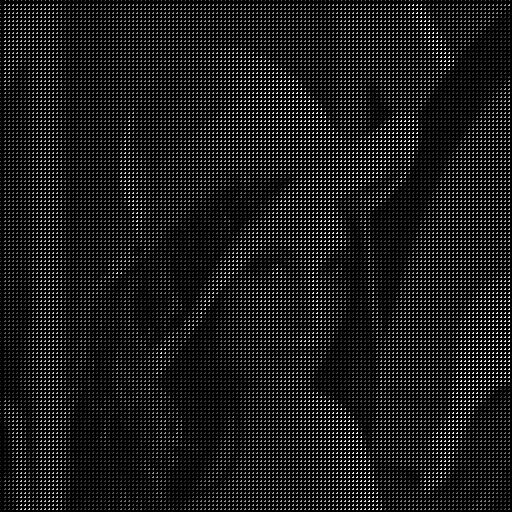
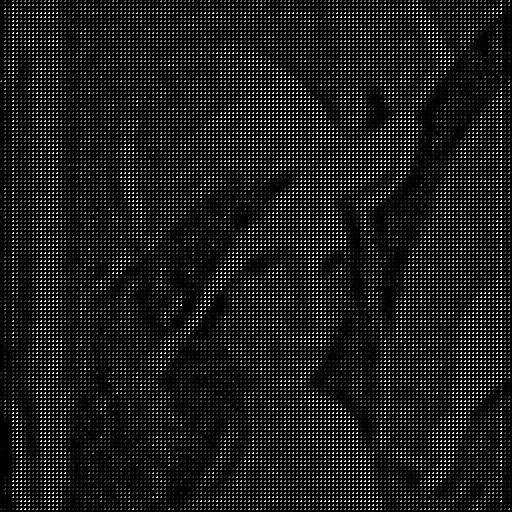
deconv amelioration

diff --git a/SignalProcessing/Projet/code.m b/SignalProcessing/Projet/code.m
@@ -45,9 +45,20 @@ down_im2 =trans_im2(1:step : size_(1), 1:step:size_(2));
 down_im3 =trans_im3(1:step : size_(1), 1:step:size_(2));
 
 %% adding noise
-noise_im1 = imnoise(down_im1, 'gaussian', 0 , 0.001);
-noise_im2 = imnoise(down_im2, 'gaussian', 0 , 0.001);
-noise_im3 = imnoise(down_im3, 'gaussian', 0 , 0.001);
+noise_im1 = imnoise(down_im1, 'gaussian', 0 , 0.01);
+noise_im2 = imnoise(down_im2, 'gaussian', 0 , 0.01);
+noise_im3 = imnoise(down_im3, 'gaussian', 0 , 0.01);
+imwrite(noise_im1, 'noise_im1.png')
+imwrite(noise_im1, 'noise_im2.png')
+imwrite(noise_im1, 'noise_im3.png')
+subplot(3,1,1);
+imshow(noise_im1)
+subplot(3,1,2);
+imshow(noise_im2)
+subplot(3,1,3);
+imshow(noise_im3);
+
+figure();
 
 %% matrix 
 shape = size(noise_im1)*step;
@@ -81,34 +92,7 @@ mask = or(mask1, or(  mask2 ,  mask3));
 imshow(im_sum)
 figure();
 imshow(mask);
-imwrite(im_sum, 'degraded_lena.jpg')
+imwrite(im_sum, 'degraded_lena.jpg');
 
-%% Approximal descent
-% init
-addpath('toolbox_signal');
-addpath('toolbox_general');
-% parameters
-rho = .8;
-Gamma = rand(512)>rho;
-Pi = @(f)f.*(1-Gamma) + double(im_sum).*Gamma;
-Delta = @(f)div(grad(f));
-tau = .05;
-niter = 100;
-E = [];
-k = 1; ndisp = [1 5 10 niter];
-norm1 = @(f)norm(f(:));
+imwrite(mask, 'mask.png')
 
-f = double(im_sum);
-for i=1:niter
-    i
-    E(i) = norm1(grad(f));
-    f = Pi( f + tau*Delta(f) );
-    if i==ndisp(k)
-        imageplot(f, ['iter=' num2str(i)], 2, 2, k);
-        k = k+1;
-    end
-    
-end
-figure;
-plot(E); axis('tight');
-set_label('Iteration #', 'E');

diff --git a/SignalProcessing/Projet/deconv_2.m b/SignalProcessing/Projet/deconv_2.m
@@ -1,0 +1,60 @@
+
+addpath('toolbox_signal');
+addpath('toolbox_general');
+y = imread('impainted_lena.jpg');
+
+noise_im1 = imread('noise_im1.png');
+noise_im2 = imread('noise_im2.png');
+noise_im3 = imread('noise_im3.png');
+
+PSF = fspecial('gaussian',5,5);
+noise_im1 = deconvlucy(noise_im1,PSF,5);
+noise_im2 = deconvlucy(noise_im2,PSF,5);
+noise_im3 = deconvlucy(noise_im3,PSF,5);
+% imageplot(double(y) ,' ',1,2,1)
+% imageplot(double(luc1),'',1,2,2)
+% title('Restored Image')
+
+
+
+
+step = 4
+size_ = [512, 512]
+transl_list = [ [1,0] ; [0,1] ;[1,1]]
+
+
+shape = size(noise_im1)*step;
+mask = zeros(shape);
+mask1 = zeros(shape);
+mask2 = zeros(shape);
+mask3 = zeros(shape);
+sum_im =  zeros(shape);
+
+
+mask1(1:step : size_(1), 1:step:size_(2)) = 1;
+mask1 = imtranslate(mask1,transl_list(1 ,:));
+
+im_sum1 = mask1 ;
+im_sum1(im_sum1>0.5) = noise_im1;
+
+mask2(1:step : size_(1), 1:step:size_(2)) = 1;
+mask2 = imtranslate(mask2,transl_list(2 ,:));
+
+im_sum2 = mask2 ;
+im_sum2(im_sum2>0.5) = noise_im2;
+
+mask3(1:step : size_(1), 1:step:size_(2)) = 1;
+mask3 = imtranslate(mask3,transl_list(3 ,:));
+
+im_sum3 = mask3 ;
+im_sum3(im_sum3>0.5) = noise_im3;
+
+im_sum = uint8(im_sum1 + im_sum2 +im_sum3);
+mask = or(mask1, or(  mask2 ,  mask3));
+imshow(im_sum)
+figure();
+imshow(mask);
+imwrite(im_sum, 'degraded_lena.jpg');
+
+imwrite(mask, 'mask.png')
+

diff --git a/SignalProcessing/Projet/deconv_1.m b/SignalProcessing/Projet/deconv_1.m
@@ -7,13 +7,20 @@ x = [0:512/2-1, -512/2:-1];
 [Y,X] = meshgrid(x,x);
 h = exp( (-X.^2-Y.^2)/(2*s^2) );
 h = h/sum(h(:));
+% h = zeros(512,512);
+% for i=1:s
+%  for j=1:s
+%      h(i ,j) = 1;
+%  end
+% end
 
 hF = real(fft2(h));
 imageplot(fftshift(hF), 'Fourier transform');
 
-y = 3*imread('impainted_lena.jpg');
+y = imread('impainted_lena.jpg');
 y_true = imread('lena.png');
 y_true = rgb2gray(y_true);
+
 yF = fft2(y);
 
 figure;
@@ -22,7 +29,7 @@ imageplot(fftshift(yF), 'Fourier transform of lena');
 SNR_list = zeros(n_iter,1);
 
 for lambda_=1:n_iter
-    lambda = lambda_ /1000;
+    lambda = lambda_ /n_iter;
 
     fL2 = real( ifft2( yF .* hF ./ ( abs(hF).^2 + lambda) ) );
     snr(double(y_true),fL2);
@@ -32,15 +39,16 @@ end;
 
 figure;
 plot(SNR_list); axis('tight');
-set_label('LAMBDA', 'SNR');
+set_label('LAMBDA 1e3', 'SNR');
 [argvalue, argmax] = max(SNR_list);
 
-argmax/1000
+argmax/n_iter
 
-lambda = argmax/1000;
+lambda = argmax/n_iter;
 
-fL2 = real( ifft2( yF .* hF ./ ( abs(hF).^2 + lambda) ) );
+deconv_im = real( ifft2( yF .* hF ./ ( abs(hF).^2 + lambda) ) );
 figure;
 imageplot(double(y), 'before deconv', 1,2,1); 
-imageplot((fL2), 'after deconv', 1,2,2);
+imageplot((deconv_im), 'after deconv', 1,2,2);
 
+imwrite(uint8(50 +deconv_im), 'deconvoled.jpg')

diff --git a/SignalProcessing/Projet/impainting_3.m b/SignalProcessing/Projet/impainting_3.m
@@ -1,0 +1,54 @@
+clear all;
+close all;
+%y = imread('degraded_lena.jpg');
+
+y_true = imread('lena.png');
+y_true = double(rgb2gray(y_true));
+
+addpath('toolbox_signal');
+addpath('toolbox_general');
+
+% parameters
+Omega = double(~imread('mask.png'));
+
+n = 512;
+Phi = @(f,Omega)f.*(1-Omega);
+y = double(Phi(y_true,Omega));
+SoftThresh = @(x,T)x.*max( 0, 1-T./max(abs(x),1e-10) );
+Jmax = log2(n)-1;
+Jmin = Jmax-3;
+options.ti = 0; % use orthogonality.
+if using_matlab()
+    Psi = @(a)perform_wavelet_transf(a, Jmin, -1,options);
+    PsiS = @(f)perform_wavelet_transf(f, Jmin, +1,options);
+end
+SoftThreshPsi = @(f,T)Psi(SoftThresh(PsiS(f),T));
+lambda = 1;
+ProjC = @(f,Omega)Omega.*f + (1-Omega).*y;
+fSpars = y;
+fSpars = ProjC(fSpars,Omega);
+
+fSpars = SoftThreshPsi( fSpars, lambda );
+
+fSpars = y;
+energy = [];
+niter = 1000;
+for i=1:niter
+    i
+    fSpars = SoftThreshPsi( ProjC(fSpars,Omega), lambda );
+    % record the energy
+    fW = PsiS(fSpars);
+    energy(i) = 1/2 * norm(double(y-Phi(fSpars,Omega)), 'fro')^2 + lambda * sum(abs(fW(:)));
+end
+
+h = plot(energy);
+axis('tight');
+set_label('Iteration', 'E');
+if using_matlab()
+    set(h, 'LineWidth', 2);
+end
+
+figure;
+imageplot((fSpars));
+
+

diff --git a/SignalProcessing/Projet/dddd.m b/SignalProcessing/Projet/dddd.m
@@ -1,0 +1,3 @@
+y = 3*imread('impainted_lena.jpg');
+y_true = imread('lena.png');
+y_true = rgb2gray(y_true);
